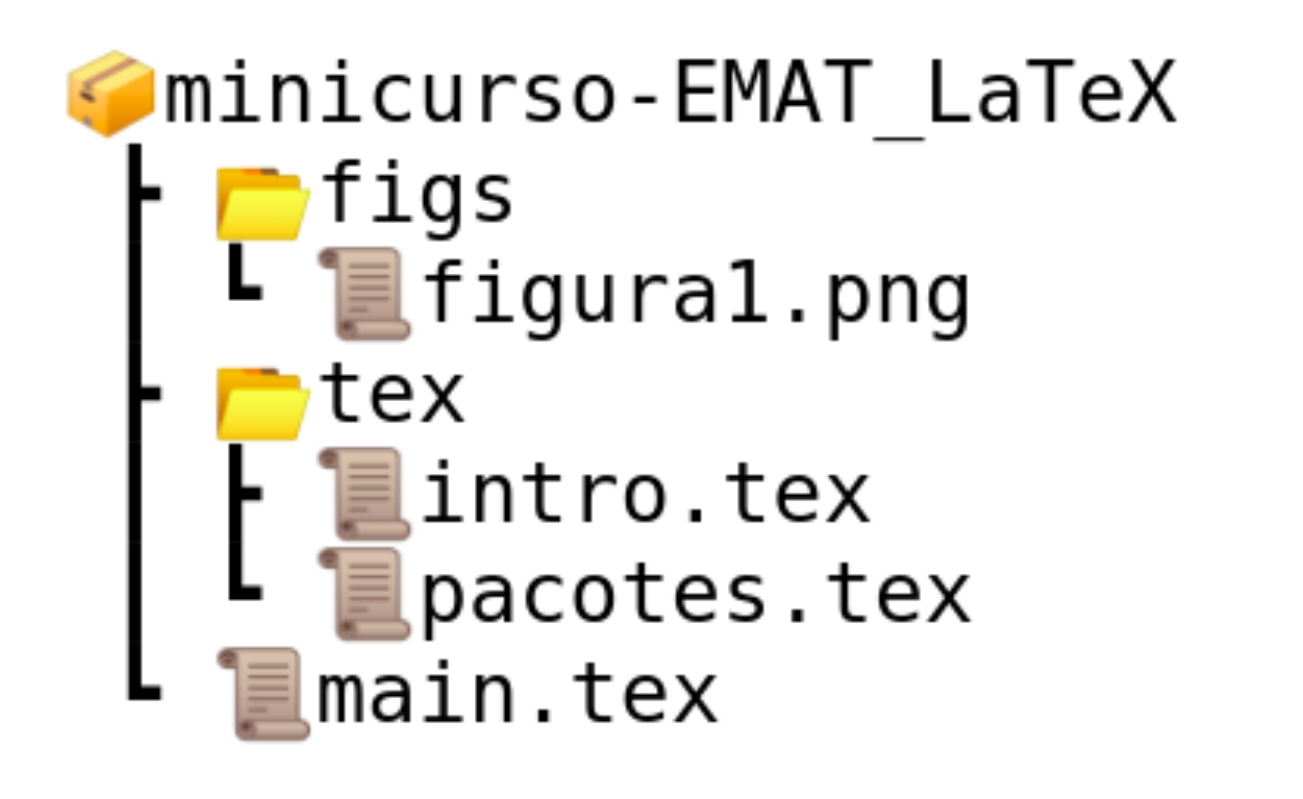
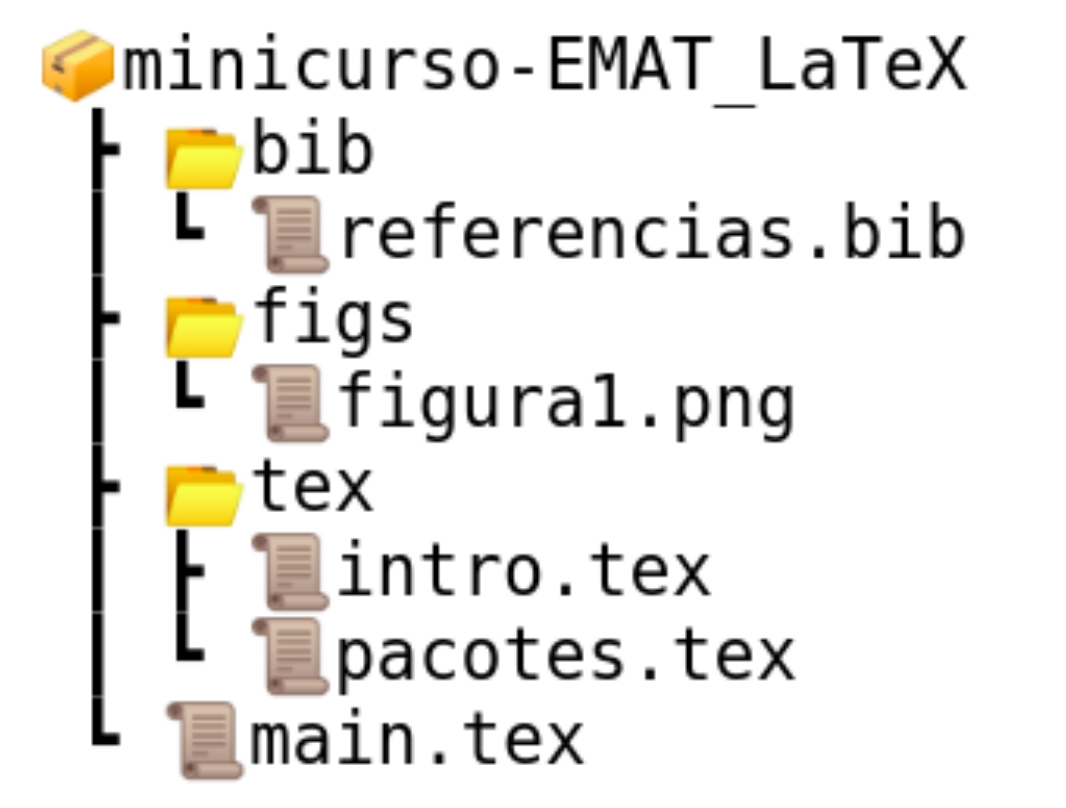
linguagem: adicionei algo sobre o pacote biblatex-abnt que havia esquecido

Changed region(s): [[0.031, 0.03, 0.9287, 0.9912]]

diff --git a/tex/02_linguagem.tex b/tex/02_linguagem.tex
@@ -532,6 +532,16 @@ Falaremos sobre eles ao longo desse texto, mas gostaria de descrever parte deles
     \begin{center}
       \Verb|\graphicspath{{./figs/}}|
     \end{center}
+  \item[\hrefB{https://github.com/abntex/biblatex-abnt}{biblatex-abnt}] É um 
+    pacote que usa o estilo BibLaTeX (estilo amplo e moderno para compor as 
+    bibliografias) para produzir Bibliografia, compatível com as normas da ABNT.
+    Usamos o comando \Verb|\usepackage[style=abnt]{biblatex}| para carregarmos 
+    o pacote com as normas da ABNT.
+    Mas, escrevemos a bibliografia (com comando específicos dessa classe, portanto
+    é importantíssimo ler o manual da mesma) num arquivo separado, de extensão 
+    \texttt{.bib}, adicionando-o com o comando 
+    \Verb|\addbibresource{referencias.bib}| (por nome \textit{referencias}, por 
+    exemplo) e exibindo-a com \Verb|\printbibliography| (no arquivo principal).
 \end{description}
 
 Agora que comentamos sobre alguns pacotes, vamos organizá-los em nosso arquivo 
@@ -569,6 +579,8 @@ Um arquivo básico seria:
 
 \usepackage{microtype}
 
+\usepackage[style=abnt]{biblatex}
+  \addbibresource{referencias.bib}
 % configurações --------------------------------------
 
 % início do documento ================================
@@ -582,8 +594,11 @@ Olá! Esse é um pequeno texto em \LaTeX.
 \end{codigo}
 
 Não coloquei as configurações ainda, pois faremos isso ao longo do texto.
+Da mesma forma, ainda não foi colocado o comando para exibir a bibliografia, pois 
+falaremos em uma seção específica para ela.
 Note, também, que selecionei o tamanho de papel \textsf{A5} para o texto, deixando
-as margens no padrão nativo do \LaTeX\ (não estou usando ABNT).
+as margens no padrão nativo do \LaTeX\ (fica melhor para visualização na tela, 
+por estarmos num minicurso online).
 
 \subsection{Arrumando as coisas} %----------------------------------------------
 
@@ -617,7 +632,8 @@ documento; \texttt{tex/}, nele colocaremos os arquivos \texttt{.tex} que
 incluiremos no arquivo principal.
 
 Inicialmente, vamos criar dois arquivos: \texttt{pacotes.tex} e \texttt{intro.tex}; 
-e, à medida que nosso texto for aumentando, criaremos os outros.
+e, à medida que nosso texto for aumentando, criaremos os outros, inclusive o da 
+bibliografia (que colocaremos no diretório \texttt{bib/}).
 
 No arquivo \texttt{pacotes.tex}, simplesmente, colocamos os pacotes que desejamos 
 carregar (não colocamos \Verb|\documentclass| ou \Verb|\begin{document}|):
@@ -635,6 +651,9 @@ carregar (não colocamos \Verb|\documentclass| ou \Verb|\begin{document}|):
   \graphicspath{{./fig/}} %-------------------> local onde ficarão as figuras
 
 \usepackage{microtype} %------------------------> para protusão de caracteres
+
+\usepackage[style=abnt]{biblatex} %---> estilo para BibLaTeX para normas ABNT
+  \addbibresource{referencias.bib} % adiciona o arquivo .bib
 \end{codigo}
 
 Já no arquivo \texttt{intro.tex}, colocaremos nosso texto introdutório:
@@ -643,9 +662,12 @@ Já no arquivo \texttt{intro.tex}, colocaremos nosso texto introdutório:
 Olá! Esse é um pequeno texto em \LaTeX.
 \end{codigo}
 
-
 Agora, no arquivo principal, onde fazemos a composição tipográfica, devemos incluir 
-os arquivos que estão em suas respectivas pastas.
+os arquivos que estão em suas respectivas pastas.\mn{
+  No \Overleaf{} a compilação no arquivo \texttt{main.tex}, independentemente do 
+  arquivo que você estiver editando.
+  Basta, apenas, salvar (\texttt{Ctrl + s}).
+}
 Para carregálos corretamente, usamos os {\textbs{caminhos relativos}}.
 Por exemplo, para incluir o arquivo \texttt{pacotes.tex}, que se encontra na pasta 
 \texttt{tex/}, devemos usar o comando (note que não precisa escrever a extensão 
@@ -655,7 +677,11 @@ do arquivo):\\
   \texttt{\textbackslash input\{tex/pacotes\}}
 }
 
-Assim, nosso arquivo principal ficaria:
+Assim, nosso arquivo principal ficaria:\mn{
+  Notem que deixei comantado o comando para exibir a bibliografia. 
+  Depois de aprendermos a adicionar os comandos no arquivo \texttt{.bib}, 
+  desmarcaremos o comentário.
+}
 
 \begin{codigo}{\texttt{main.tex}}{\lapis}
 % classe do documento ================================
@@ -672,6 +698,9 @@ Assim, nosso arquivo principal ficaria:
 % 
   \input{tex/intro} %-------------> texto introdutório
 %
+%
+  %\printbibliography
+%
 % fim do documento ----------------------------------- 
 \end{document}
 \end{codigo}
@@ -682,7 +711,7 @@ E a organização visua seria algo como a Figura~\ref{fig:diretorios}
   \centering
   \includegraphics[width=0.45\linewidth]{diretorios}
   \caption{Visualização dos diretórios}
-  \label{fig:diretorios}
+  \label{fig:diretorios}  
 \end{figure}
 
 Agora sim, estamos aptos para escrever nosso texto!
